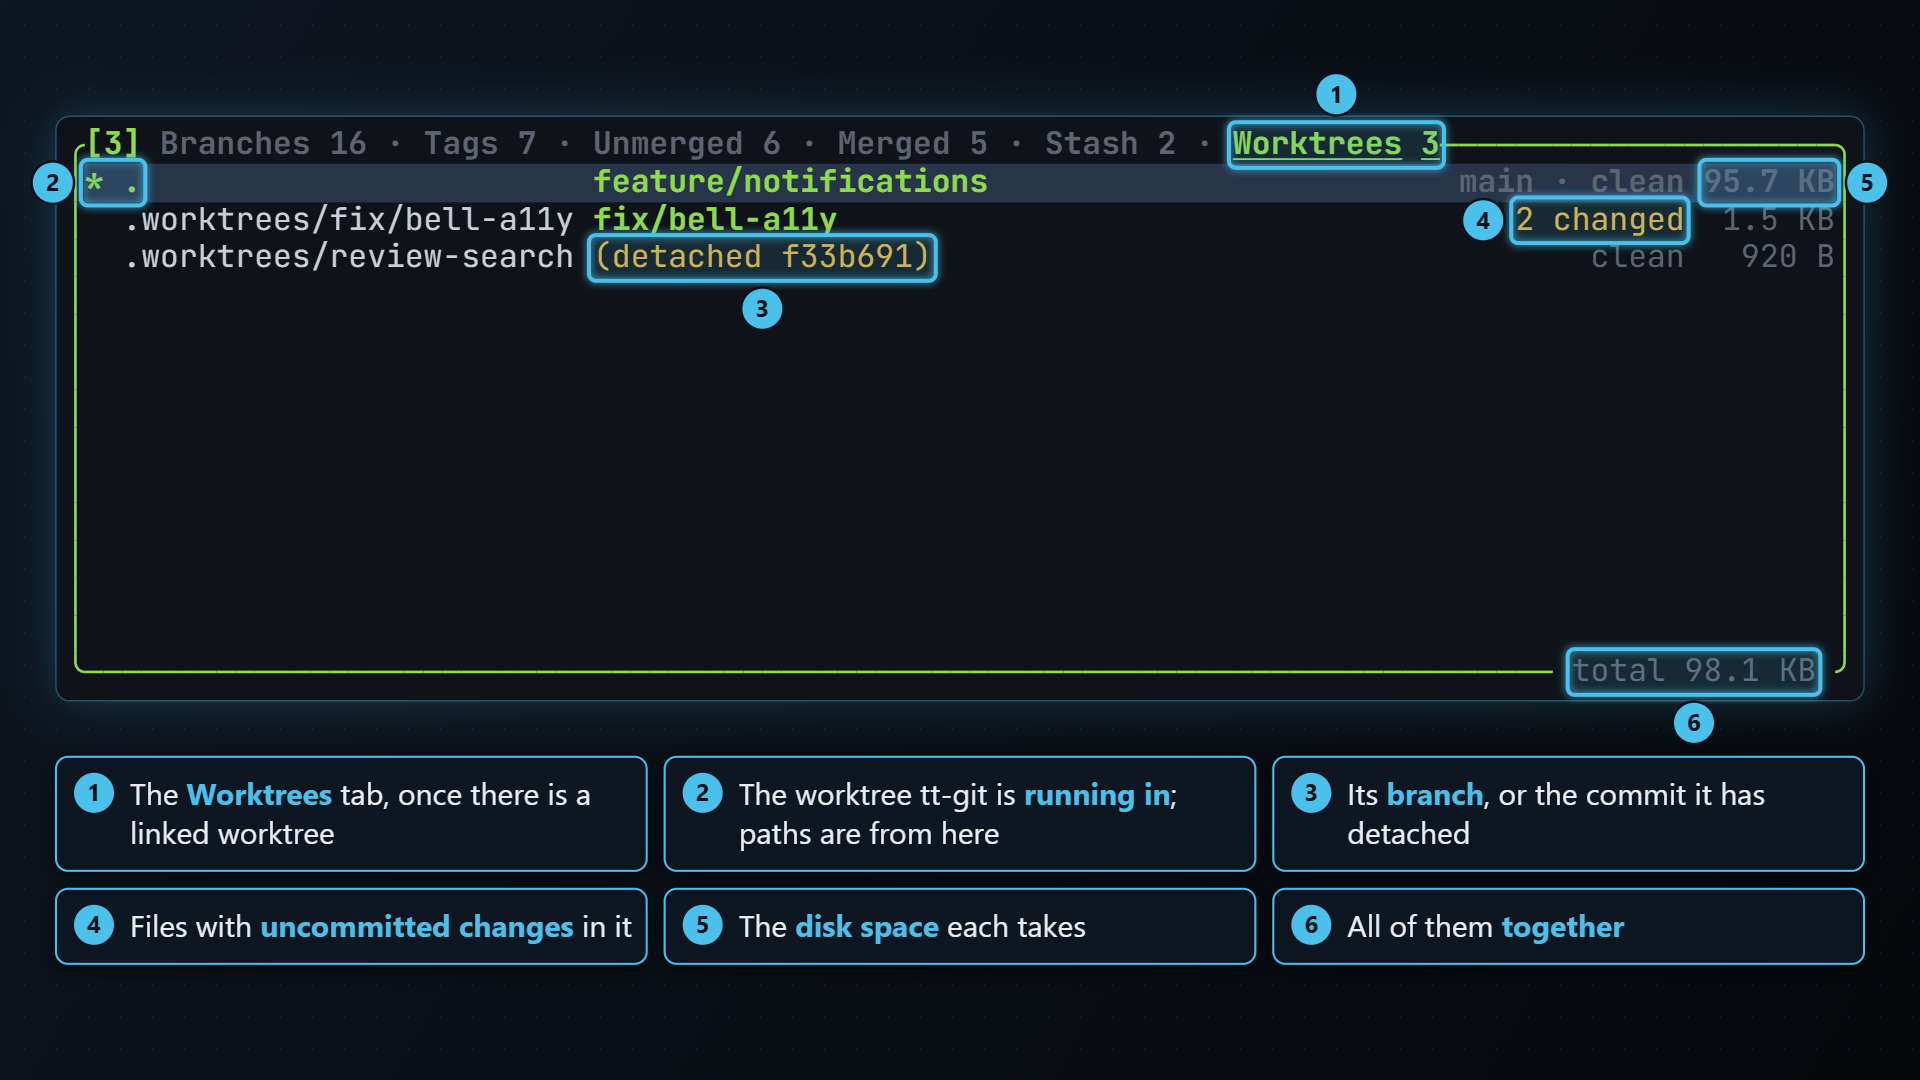
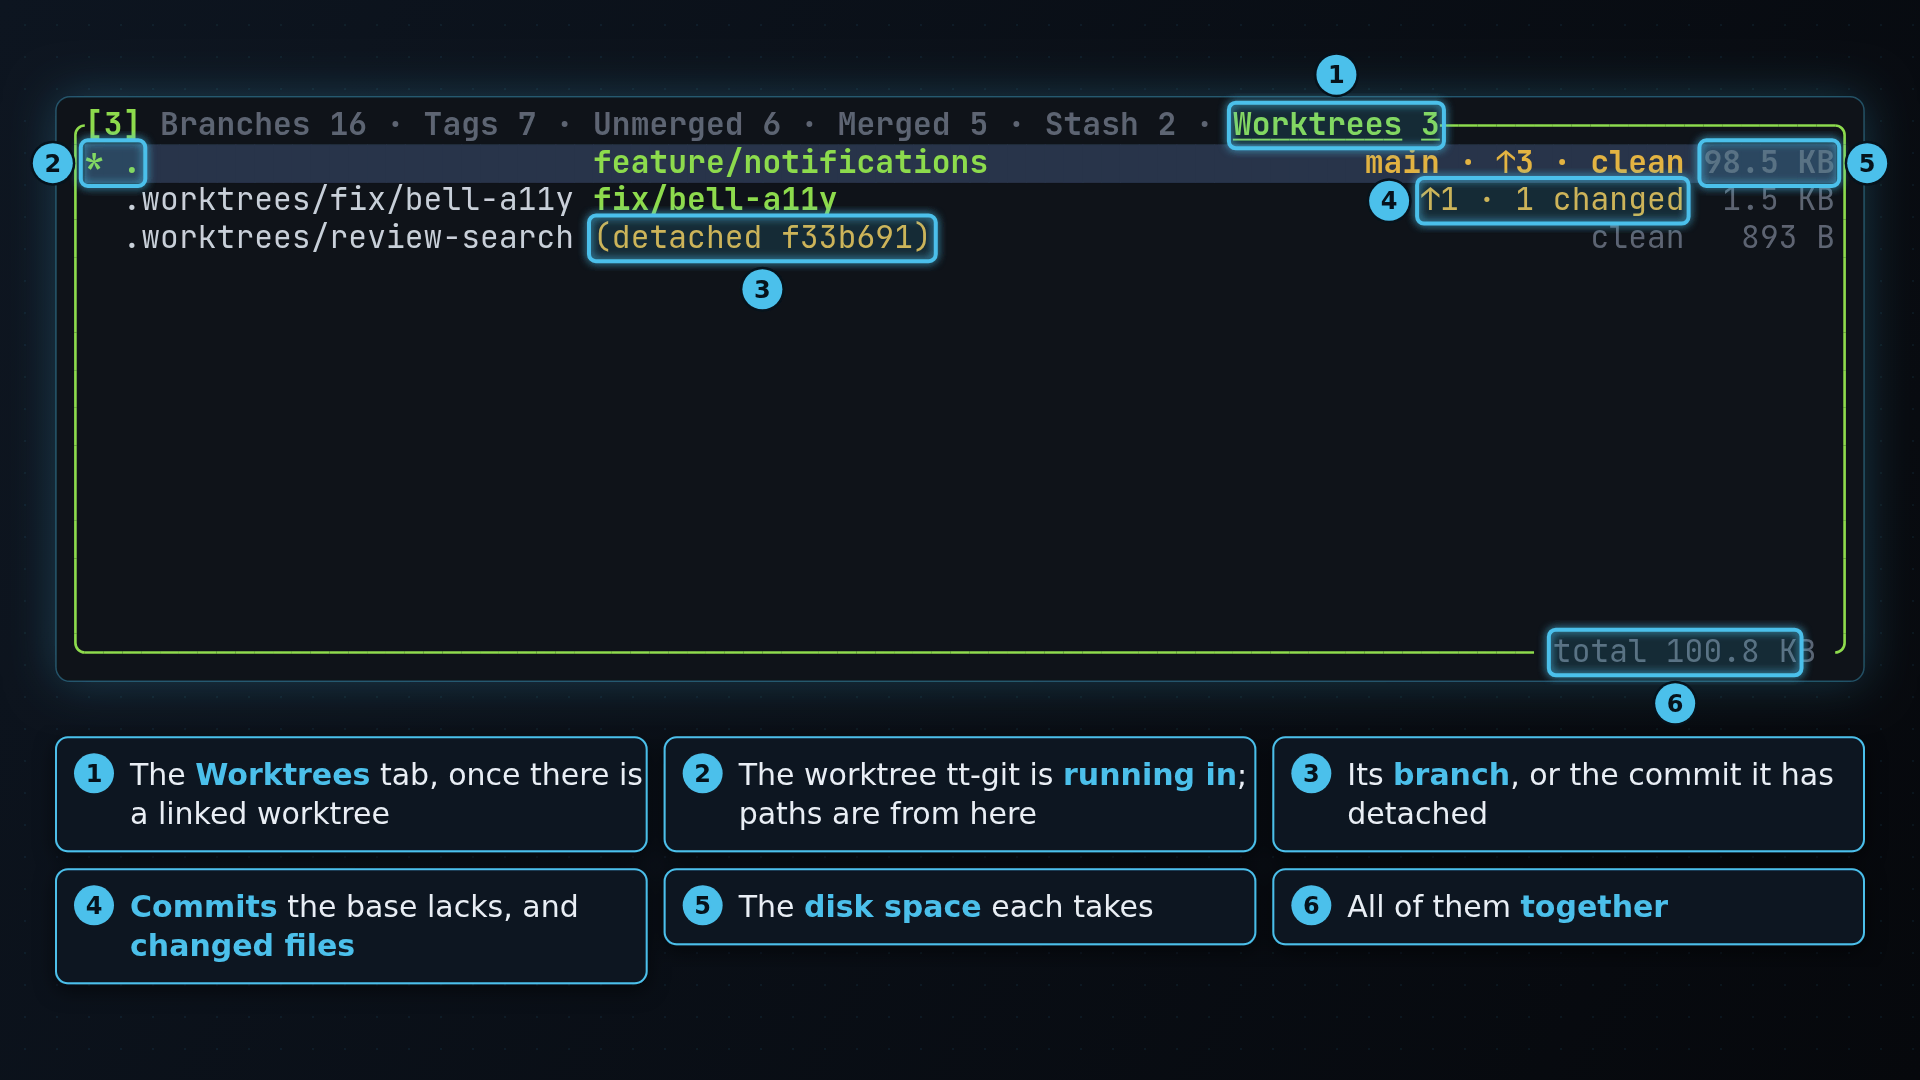
docs(worktrees): Describe the commits a worktree has that the base doesn't

Changed region(s): [[0.0312, 0.55, 0.9688, 0.9167], [0.0, 0.0306, 1.0, 0.3056]]

diff --git a/crates/tt-git-testkit/examples/docshots.rs b/crates/tt-git-testkit/examples/docshots.rs
@@ -592,8 +592,8 @@ impl<'a> Mock<'a> {
         self.sb.write("src/hooks/useNotifications.ts", USE_NOTIFICATIONS);
     }
 
-    /// A worktree for a new fix branch with work in progress, and a
-    /// detached one for reviewing a feature, both under `.worktrees/`.
+    /// A worktree for a new fix branch with a commit and work in progress,
+    /// and a detached one for reviewing a feature, both under `.worktrees/`.
     fn worktrees(&self) {
         let fix = self.sb.path().join(".worktrees/fix/bell-a11y");
         let review = self.sb.path().join(".worktrees/review-search");
@@ -605,6 +605,8 @@ impl<'a> Mock<'a> {
         let bell = BELL.replace("<button", "<button aria-label=\"Notifications\"");
         std::fs::write(fix.join("src/components/NotificationBell.tsx"), bell).unwrap();
         std::fs::write(fix.join("src/components/bell.test.tsx"), "// TODO\n").unwrap();
+        self.sb.git(&["-C", fix_s, "add", "src/components/bell.test.tsx"]);
+        self.sb.git(&["-C", fix_s, "commit", "-q", "-m", "Test the bell's label"]);
     }
 
     /// src/api/client.ts built up line by line (see [`CLIENT`]), one commit
